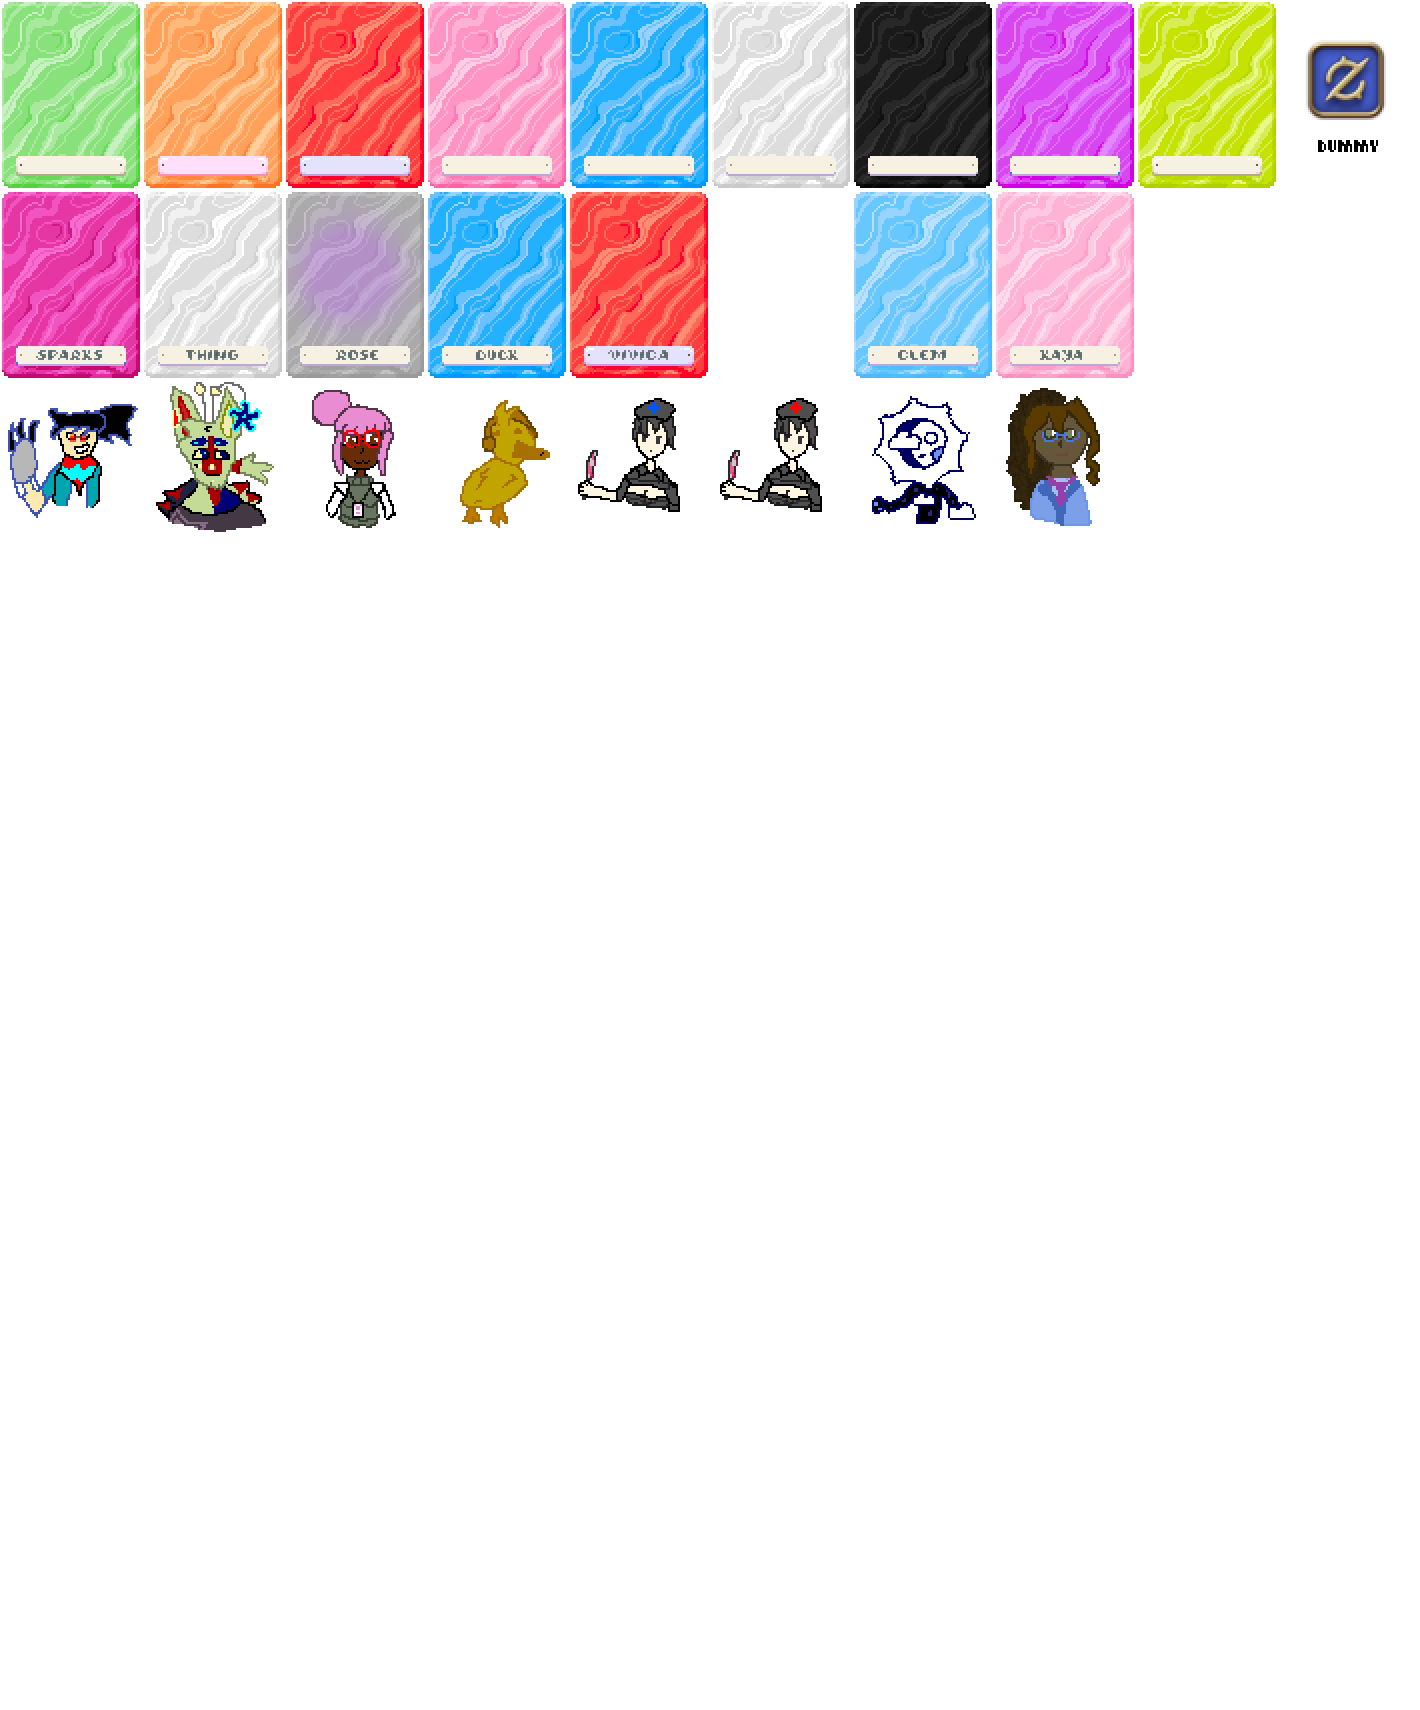
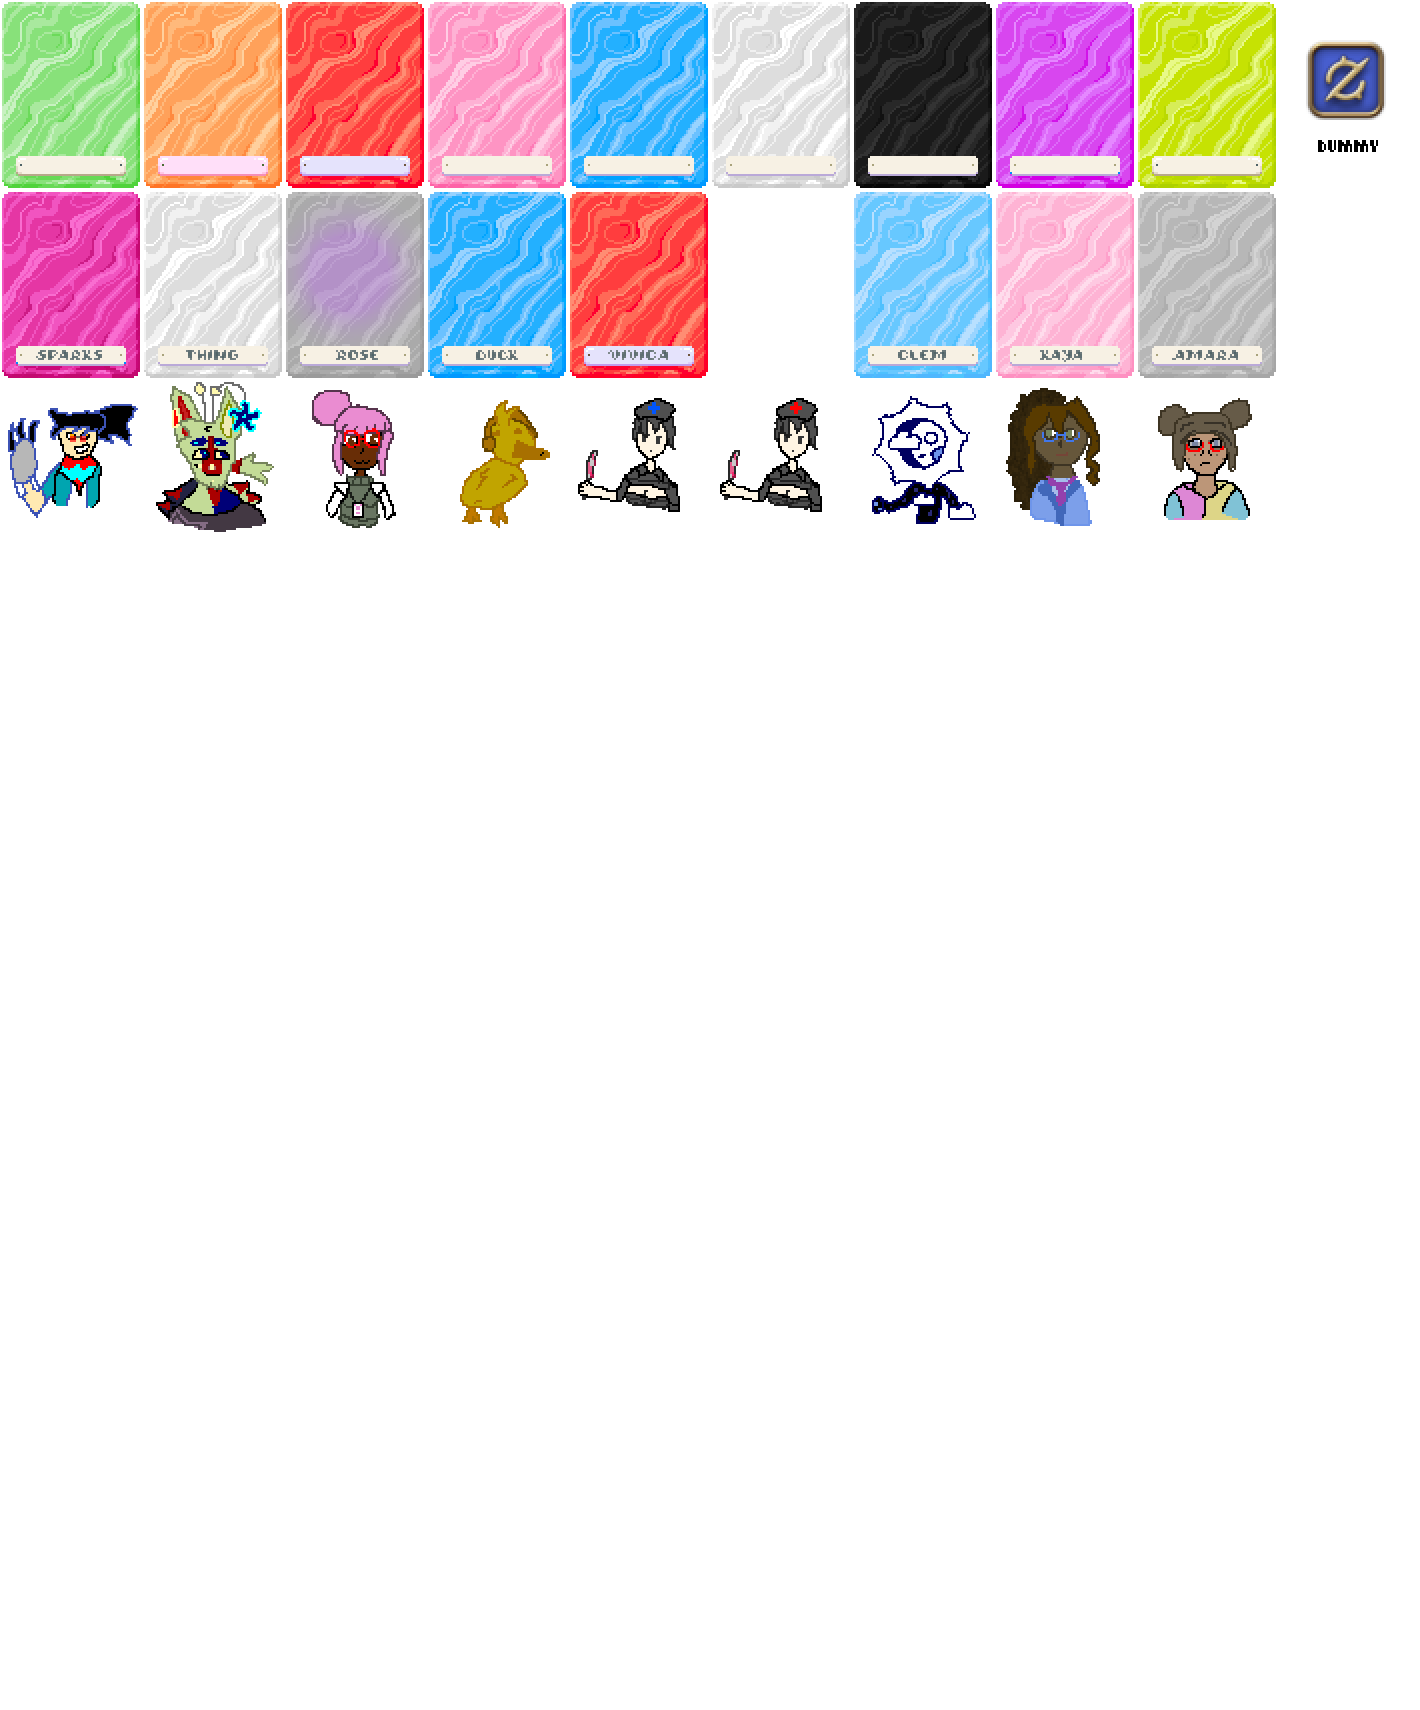
8

Changed region(s): [[0.7746, 0.093, 0.8986, 0.3099]]

diff --git a/CREDITS.md b/CREDITS.md
@@ -1,5 +1,6 @@
 <del>also a convenient reference for me when i submit the attack, because i will definitely forget</del>
 
+- [Amara](https://artfight.net/character/6646403.amara-bisan-desta-oc)
 - [Clementine](https://artfight.net/character/8221064.clementine-tadc) <!-- Check if he should be scored as a simple design -->
 - [Duck](https://artfight.net/character/9698669.rubber-ducky)
 - [Kaya](https://artfight.net/character/10862985.kaya)
